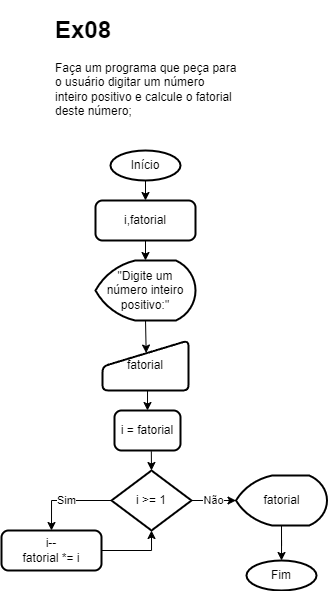
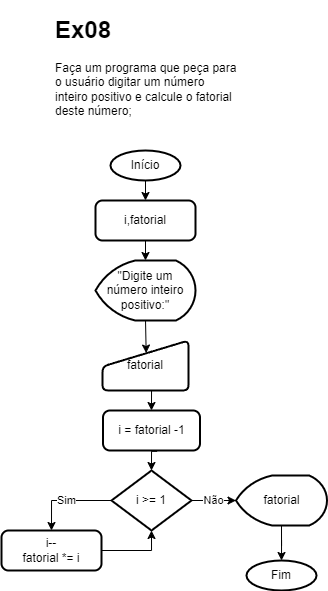
aula06

Changed region(s): [[0.3049, 0.6701, 0.6098, 0.7919], [0.4573, 0.7614, 0.4878, 0.7919]]

diff --git a/2em/01-lop/aula06/README.md b/2em/01-lop/aula06/README.md
@@ -23,8 +23,28 @@ do{}while()
 ![ex06](./ex06.png)
 - Ex07
 ![ex06](./ex07.png)
+```c
+#include<stdio.h>
+int main(){
+	int i = 0, acumulador = 0;
+	for(i = 0; i < 100; i++)
+		acumulador += i;
+	printf("A soma de 0 a 100 é = %d",acumulador);
+}
+```
 - Ex08
 ![ex06](./ex08.png)
+```c
+#include<stdio.h>
+int main(){
+	int i, fatorial;
+	printf("Digite um número inteiro positivo:");
+	scanf("%d",&fatorial);
+	for(i = fatorial - 1; i > 1; i--)
+		fatorial *= i;
+	printf("O fatorial é %d",fatorial);
+}
+```
 - Ex09
 ![ex06](./ex09.png)
 - Ex10
